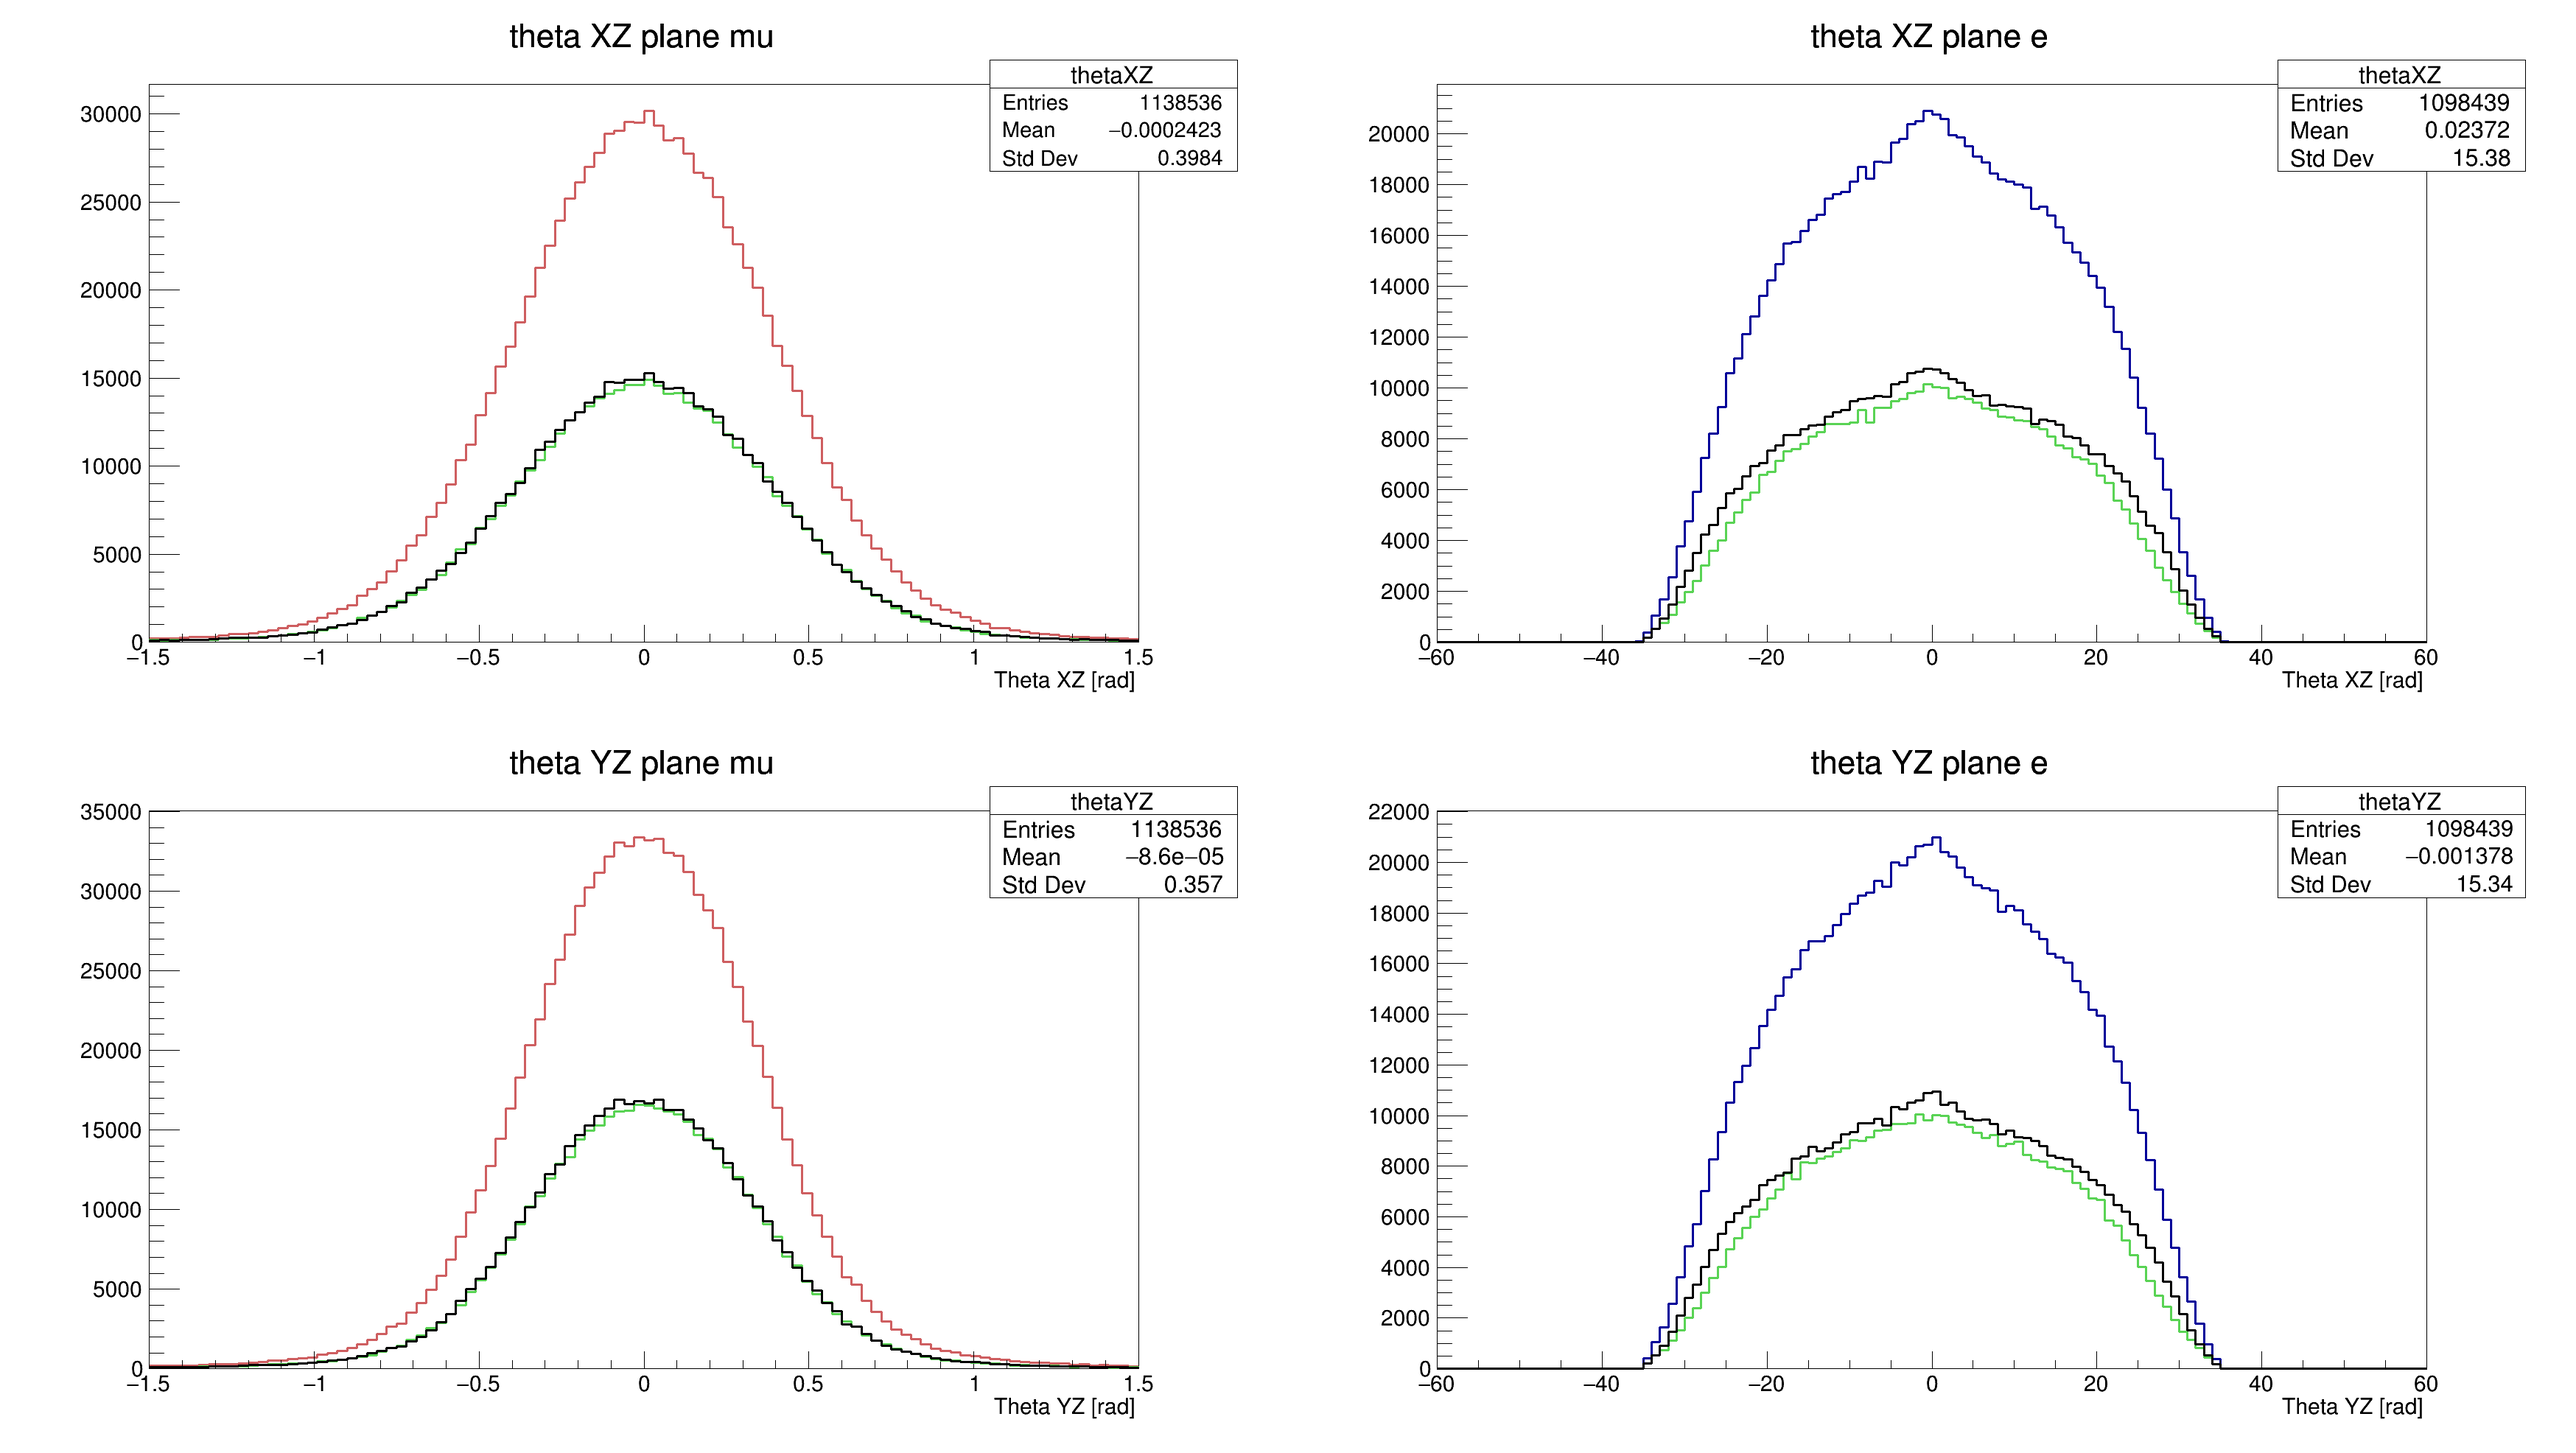
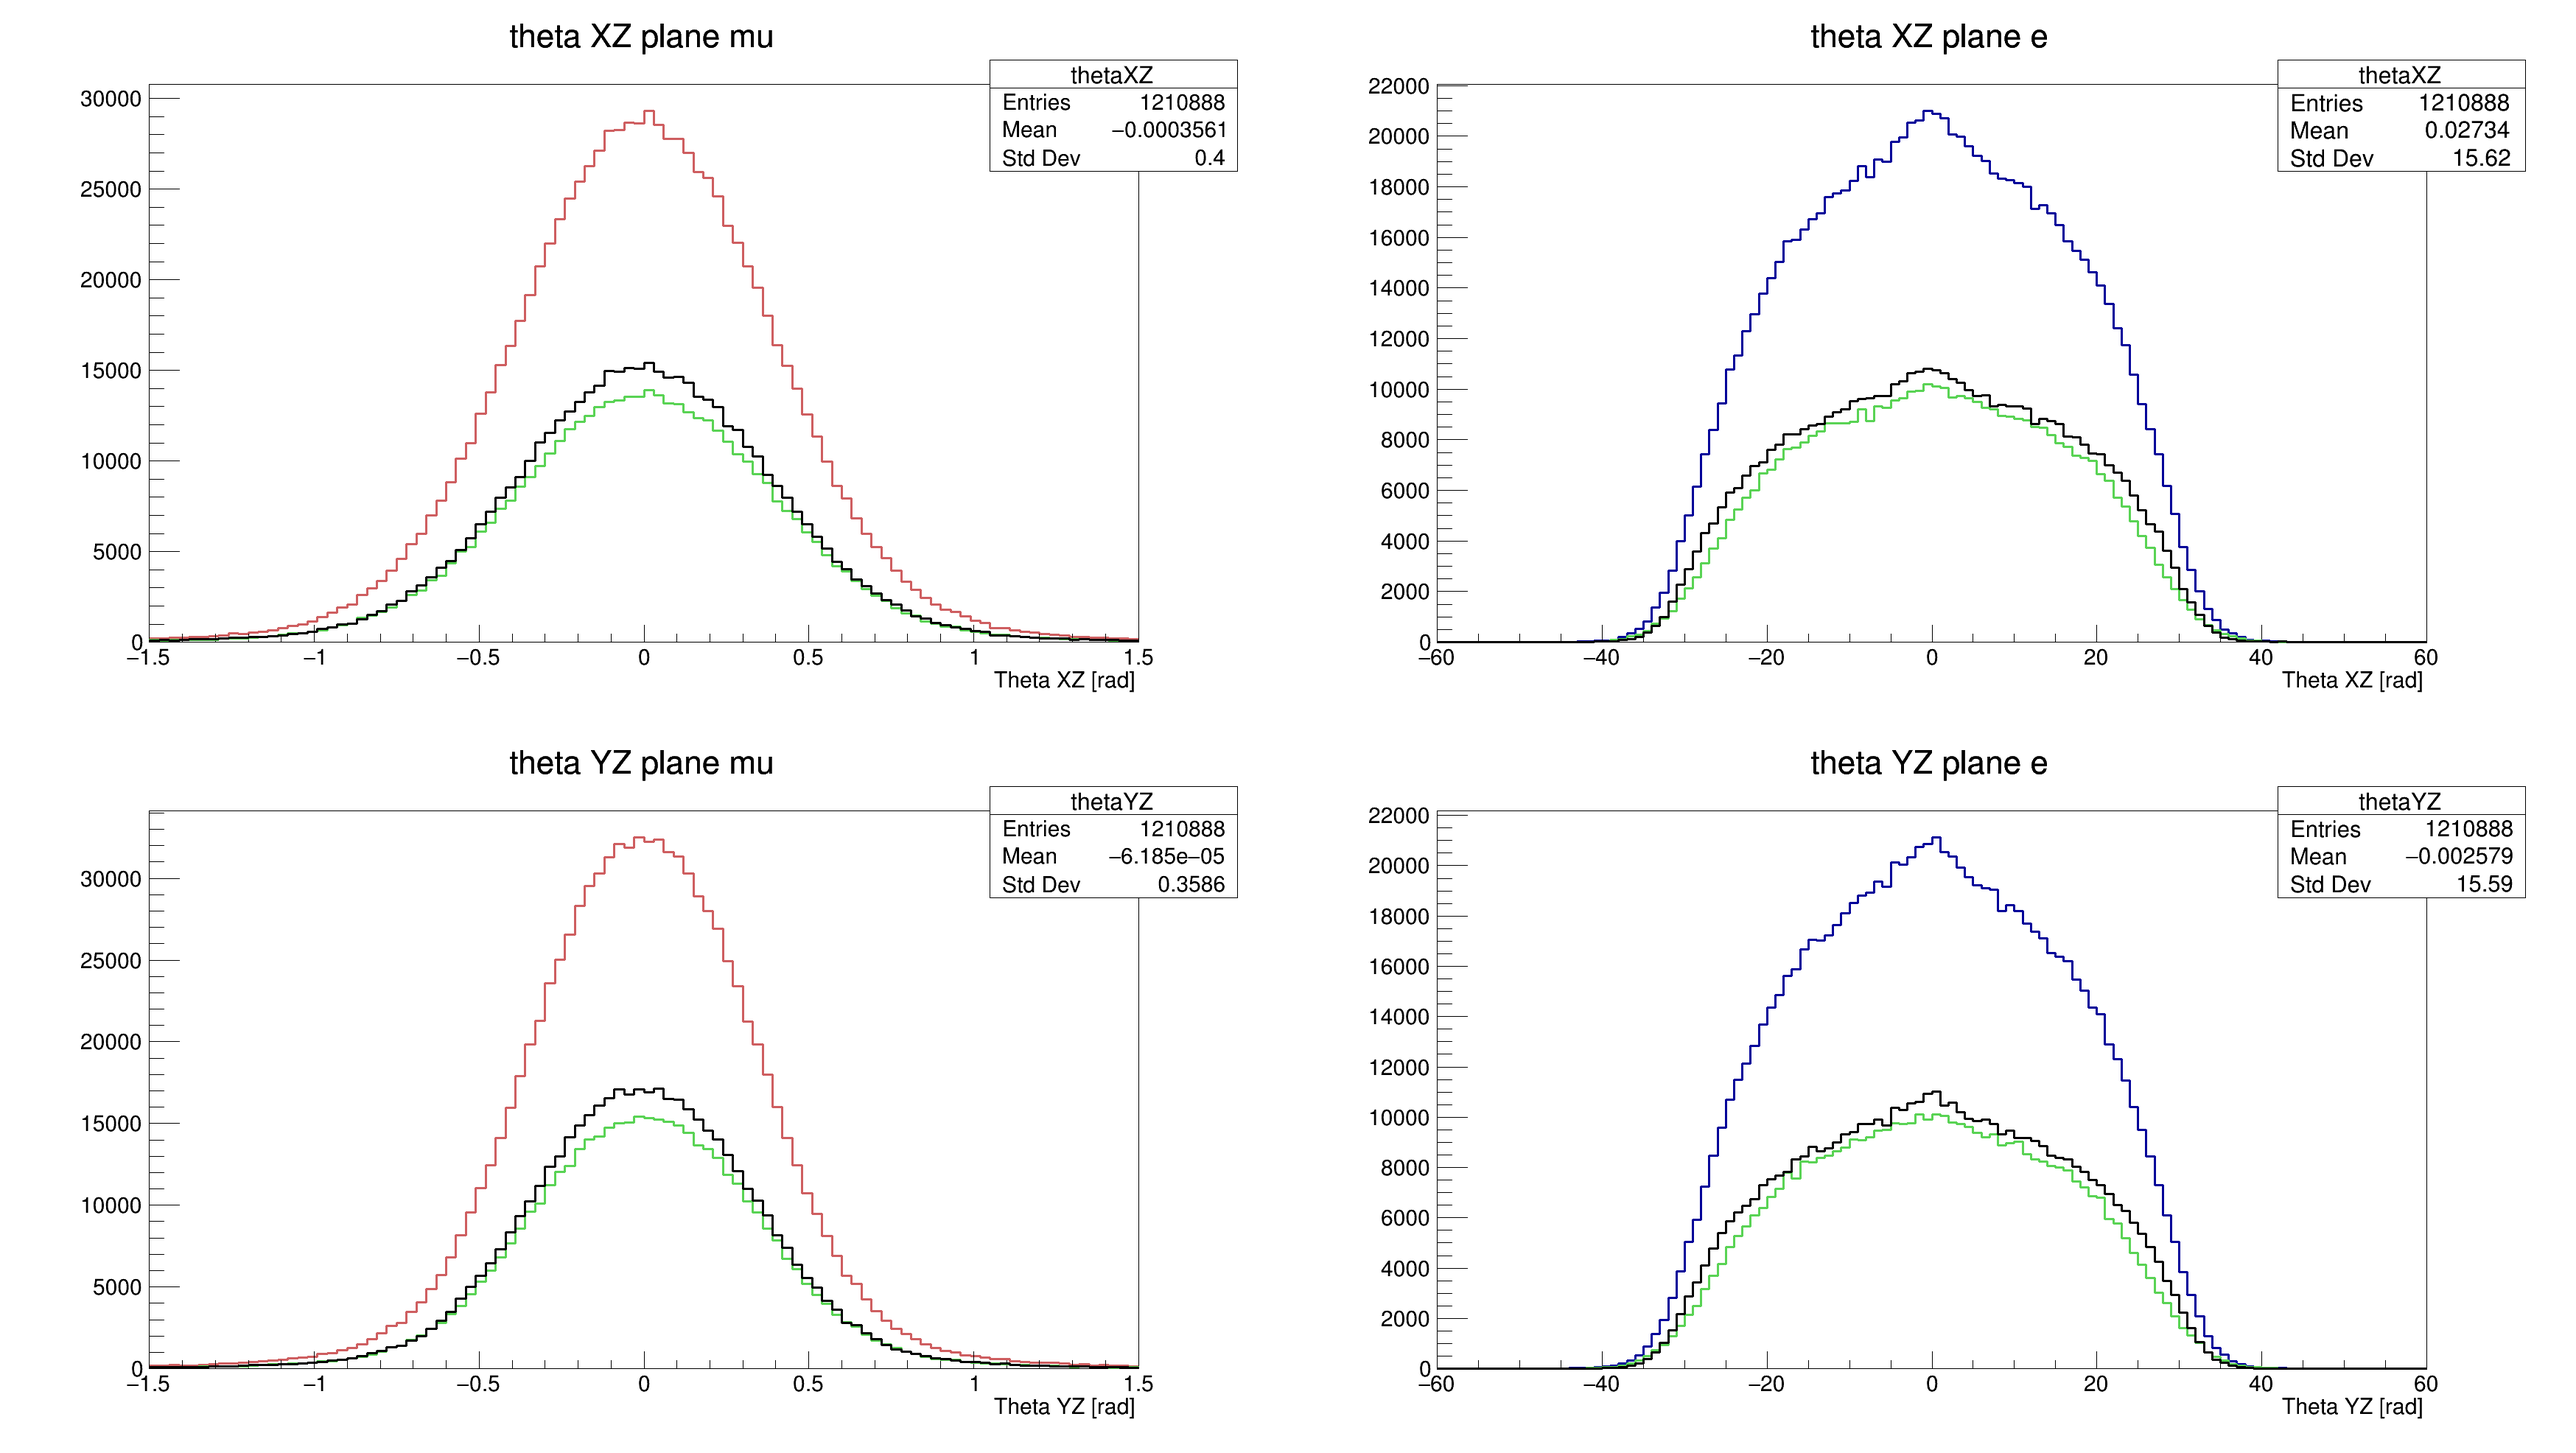
png

diff --git a/nextLO.C b/nextLO.C
@@ -103,7 +103,7 @@ TH2F  *Th_E_el2  = new TH2F("ThEel2" , " Theta el Vs. E_ECAL TAR 2",120,0,60,280
        //prende solo eventi che hanno elettroni nel calorimetro
 double r_mu=sqrt((detKinBeamRot_x_in*detKinBeamRot_x_in)+(detKinBeamRot_y_in*detKinBeamRot_y_in));   
        
-      if (r_mu<5 && E_ECAL>1 && abs(detKinBeamRot_cooXe) < 0.07125 && abs(detKinBeamRot_cooYe) < 0.07125 ) 
+      if (r_mu<5 && E_ECAL>0.2 && abs(detKinBeamRot_cooXe) < 0.07125 && abs(detKinBeamRot_cooYe) < 0.07125 ) 
 {
 
         if (abs(detKinBeamRot_cooXmu) < 0.07125 && abs(detKinBeamRot_cooYmu) < 0.07125){
